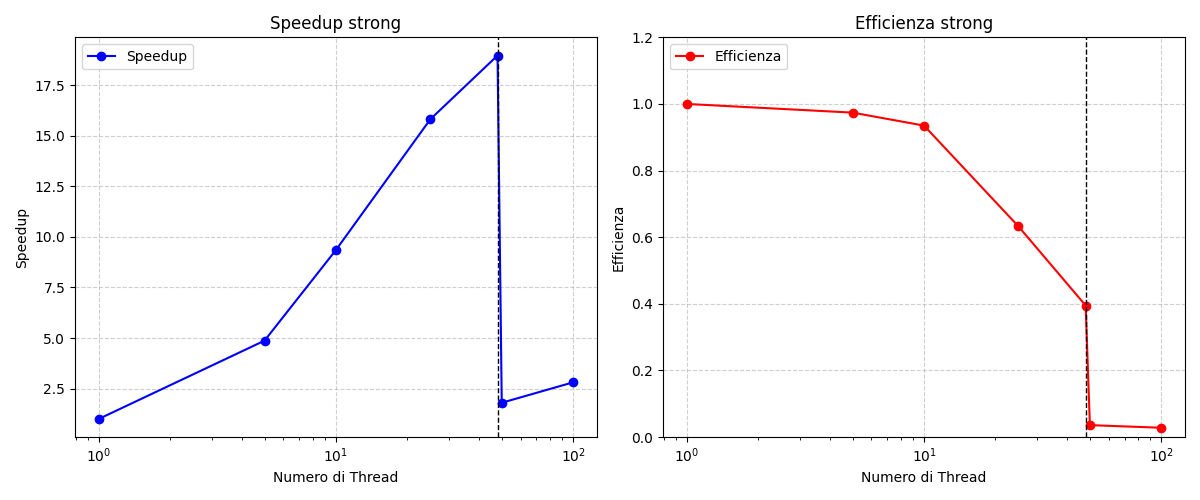
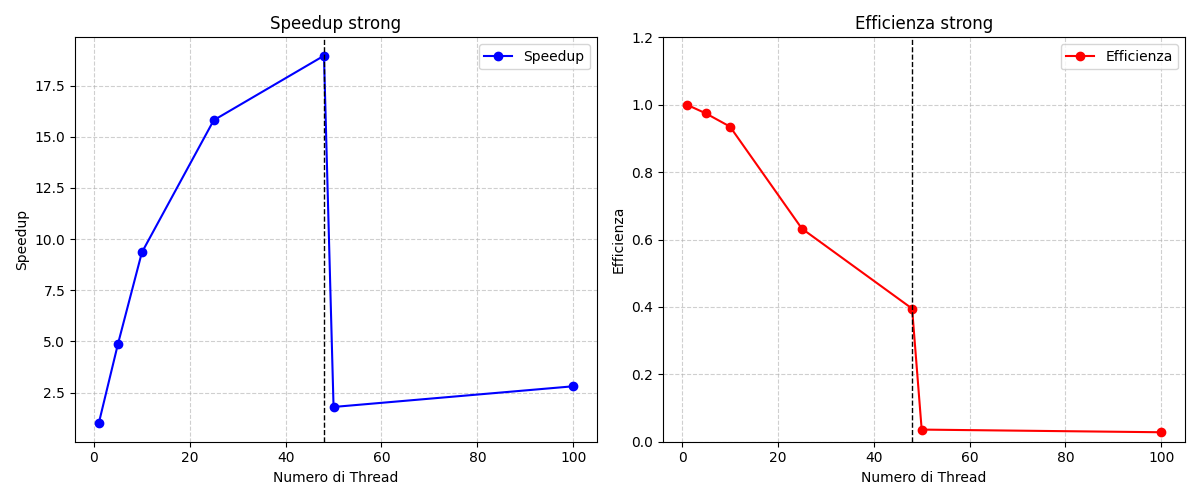
asd

diff --git a/HPC/Approfondimento riduzione/risultati/grafici/plot_mpi_weak.py b/HPC/Approfondimento riduzione/risultati/grafici/plot_mpi_weak.py
@@ -1,8 +1,8 @@
 import matplotlib.pyplot as plt # type: ignore
 
 # Dati dalla tabella
-num_threads = [1, 5, 10, 25, 48, 50, 100]
-speedup = [1, 4.87, 9.35, 15.81, 18.96, 1.80, 2.81]
+num_threads = [1, 5, 10, 25, 50]
+speedup = [0.65, 1.23, 2.55, 2.77, 3.14]
 efficiency = [s/t for s, t in zip(speedup, num_threads)]  # Efficienza = Speedup / Num_threads
 
 # Creazione della figura con due sottografi
@@ -10,21 +10,19 @@ fig, axes = plt.subplots(1, 2, figsize=(12, 5))
 
 # Primo grafico: Speedup
 axes[0].plot(num_threads, speedup, 'bo-', markersize=6, label="Speedup")
-axes[0].axvline(48, color='black', linestyle='--', linewidth=1)  # Linea tratteggiata verticale
 axes[0].set_xlabel("Numero di Thread")
 axes[0].set_ylabel("Speedup")
-axes[0].set_title("Speedup strong")
+axes[0].set_title("Speedup weak")
 axes[0].grid(True, linestyle="--", alpha=0.6)
 axes[0].legend()
 # axes[0].set_xscale('log')  # Scala logaritmica sull'asse x
 
 # Secondo grafico: Efficienza
 axes[1].plot(num_threads, efficiency, 'ro-', markersize=6, label="Efficienza")
-axes[1].axvline(48, color='black', linestyle='--', linewidth=1)  # Linea tratteggiata verticale
 axes[1].set_xlabel("Numero di Thread")
 axes[1].set_ylabel("Efficienza")
-axes[1].set_title("Efficienza strong")
-axes[1].set_ylim(0, 1.2)  # Limita l'asse y
+axes[1].set_title("Efficienza weak")
+axes[1].set_ylim(0, 1.2)  # Imposta il limite dell'asse y da 0 a 0.5
 axes[1].grid(True, linestyle="--", alpha=0.6)
 axes[1].legend()
 # axes[1].set_xscale('log')  # Scala logaritmica sull'asse x
@@ -32,3 +30,4 @@ axes[1].legend()
 # Mostra i grafici
 plt.tight_layout()
 plt.show()
+

diff --git a/HPC/Approfondimento riduzione/risultati/grafici/plot_mpi_strong.py b/HPC/Approfondimento riduzione/risultati/grafici/plot_mpi_strong.py
@@ -1,8 +1,8 @@
 import matplotlib.pyplot as plt # type: ignore
 
 # Dati dalla tabella
-num_threads = [1, 5, 10, 25, 48, 50, 100]
-speedup = [1, 4.87, 9.35, 15.81, 18.96, 1.80, 2.81]
+num_threads = [1, 5, 10, 25, 50, 100]
+speedup = [0.80, 1.38, 2.36, 2.53, 2.53, 2.53]
 efficiency = [s/t for s, t in zip(speedup, num_threads)]  # Efficienza = Speedup / Num_threads
 
 # Creazione della figura con due sottografi
@@ -10,21 +10,20 @@ fig, axes = plt.subplots(1, 2, figsize=(12, 5))
 
 # Primo grafico: Speedup
 axes[0].plot(num_threads, speedup, 'bo-', markersize=6, label="Speedup")
-axes[0].axvline(48, color='black', linestyle='--', linewidth=1)  # Linea tratteggiata verticale
 axes[0].set_xlabel("Numero di Thread")
 axes[0].set_ylabel("Speedup")
 axes[0].set_title("Speedup strong")
+axes[0].set_ylim(0.7, 10.0) 
 axes[0].grid(True, linestyle="--", alpha=0.6)
 axes[0].legend()
 # axes[0].set_xscale('log')  # Scala logaritmica sull'asse x
 
 # Secondo grafico: Efficienza
 axes[1].plot(num_threads, efficiency, 'ro-', markersize=6, label="Efficienza")
-axes[1].axvline(48, color='black', linestyle='--', linewidth=1)  # Linea tratteggiata verticale
 axes[1].set_xlabel("Numero di Thread")
 axes[1].set_ylabel("Efficienza")
 axes[1].set_title("Efficienza strong")
-axes[1].set_ylim(0, 1.2)  # Limita l'asse y
+axes[1].set_ylim(0, 1.2)
 axes[1].grid(True, linestyle="--", alpha=0.6)
 axes[1].legend()
 # axes[1].set_xscale('log')  # Scala logaritmica sull'asse x
@@ -32,3 +31,4 @@ axes[1].legend()
 # Mostra i grafici
 plt.tight_layout()
 plt.show()
+

diff --git a/HPC/Approfondimento riduzione/risultati/grafici/plot_omp_weak.py b/HPC/Approfondimento riduzione/risultati/grafici/plot_omp_weak.py
@@ -15,7 +15,7 @@ axes[0].set_ylabel("Speedup")
 axes[0].set_title("Speedup weak")
 axes[0].grid(True, linestyle="--", alpha=0.6)
 axes[0].legend()
-axes[0].set_xscale('log')  # Scala logaritmica sull'asse x
+# axes[0].set_xscale('log')  # Scala logaritmica sull'asse x
 
 # Secondo grafico: Efficienza
 axes[1].plot(num_threads, efficiency, 'ro-', markersize=6, label="Efficienza")
@@ -25,7 +25,7 @@ axes[1].set_title("Efficienza weak")
 axes[1].set_ylim(0, 1.2)  # Imposta il limite dell'asse y da 0 a 0.5
 axes[1].grid(True, linestyle="--", alpha=0.6)
 axes[1].legend()
-axes[1].set_xscale('log')  # Scala logaritmica sull'asse x
+# axes[1].set_xscale('log')  # Scala logaritmica sull'asse x
 
 # Mostra i grafici
 plt.tight_layout()
